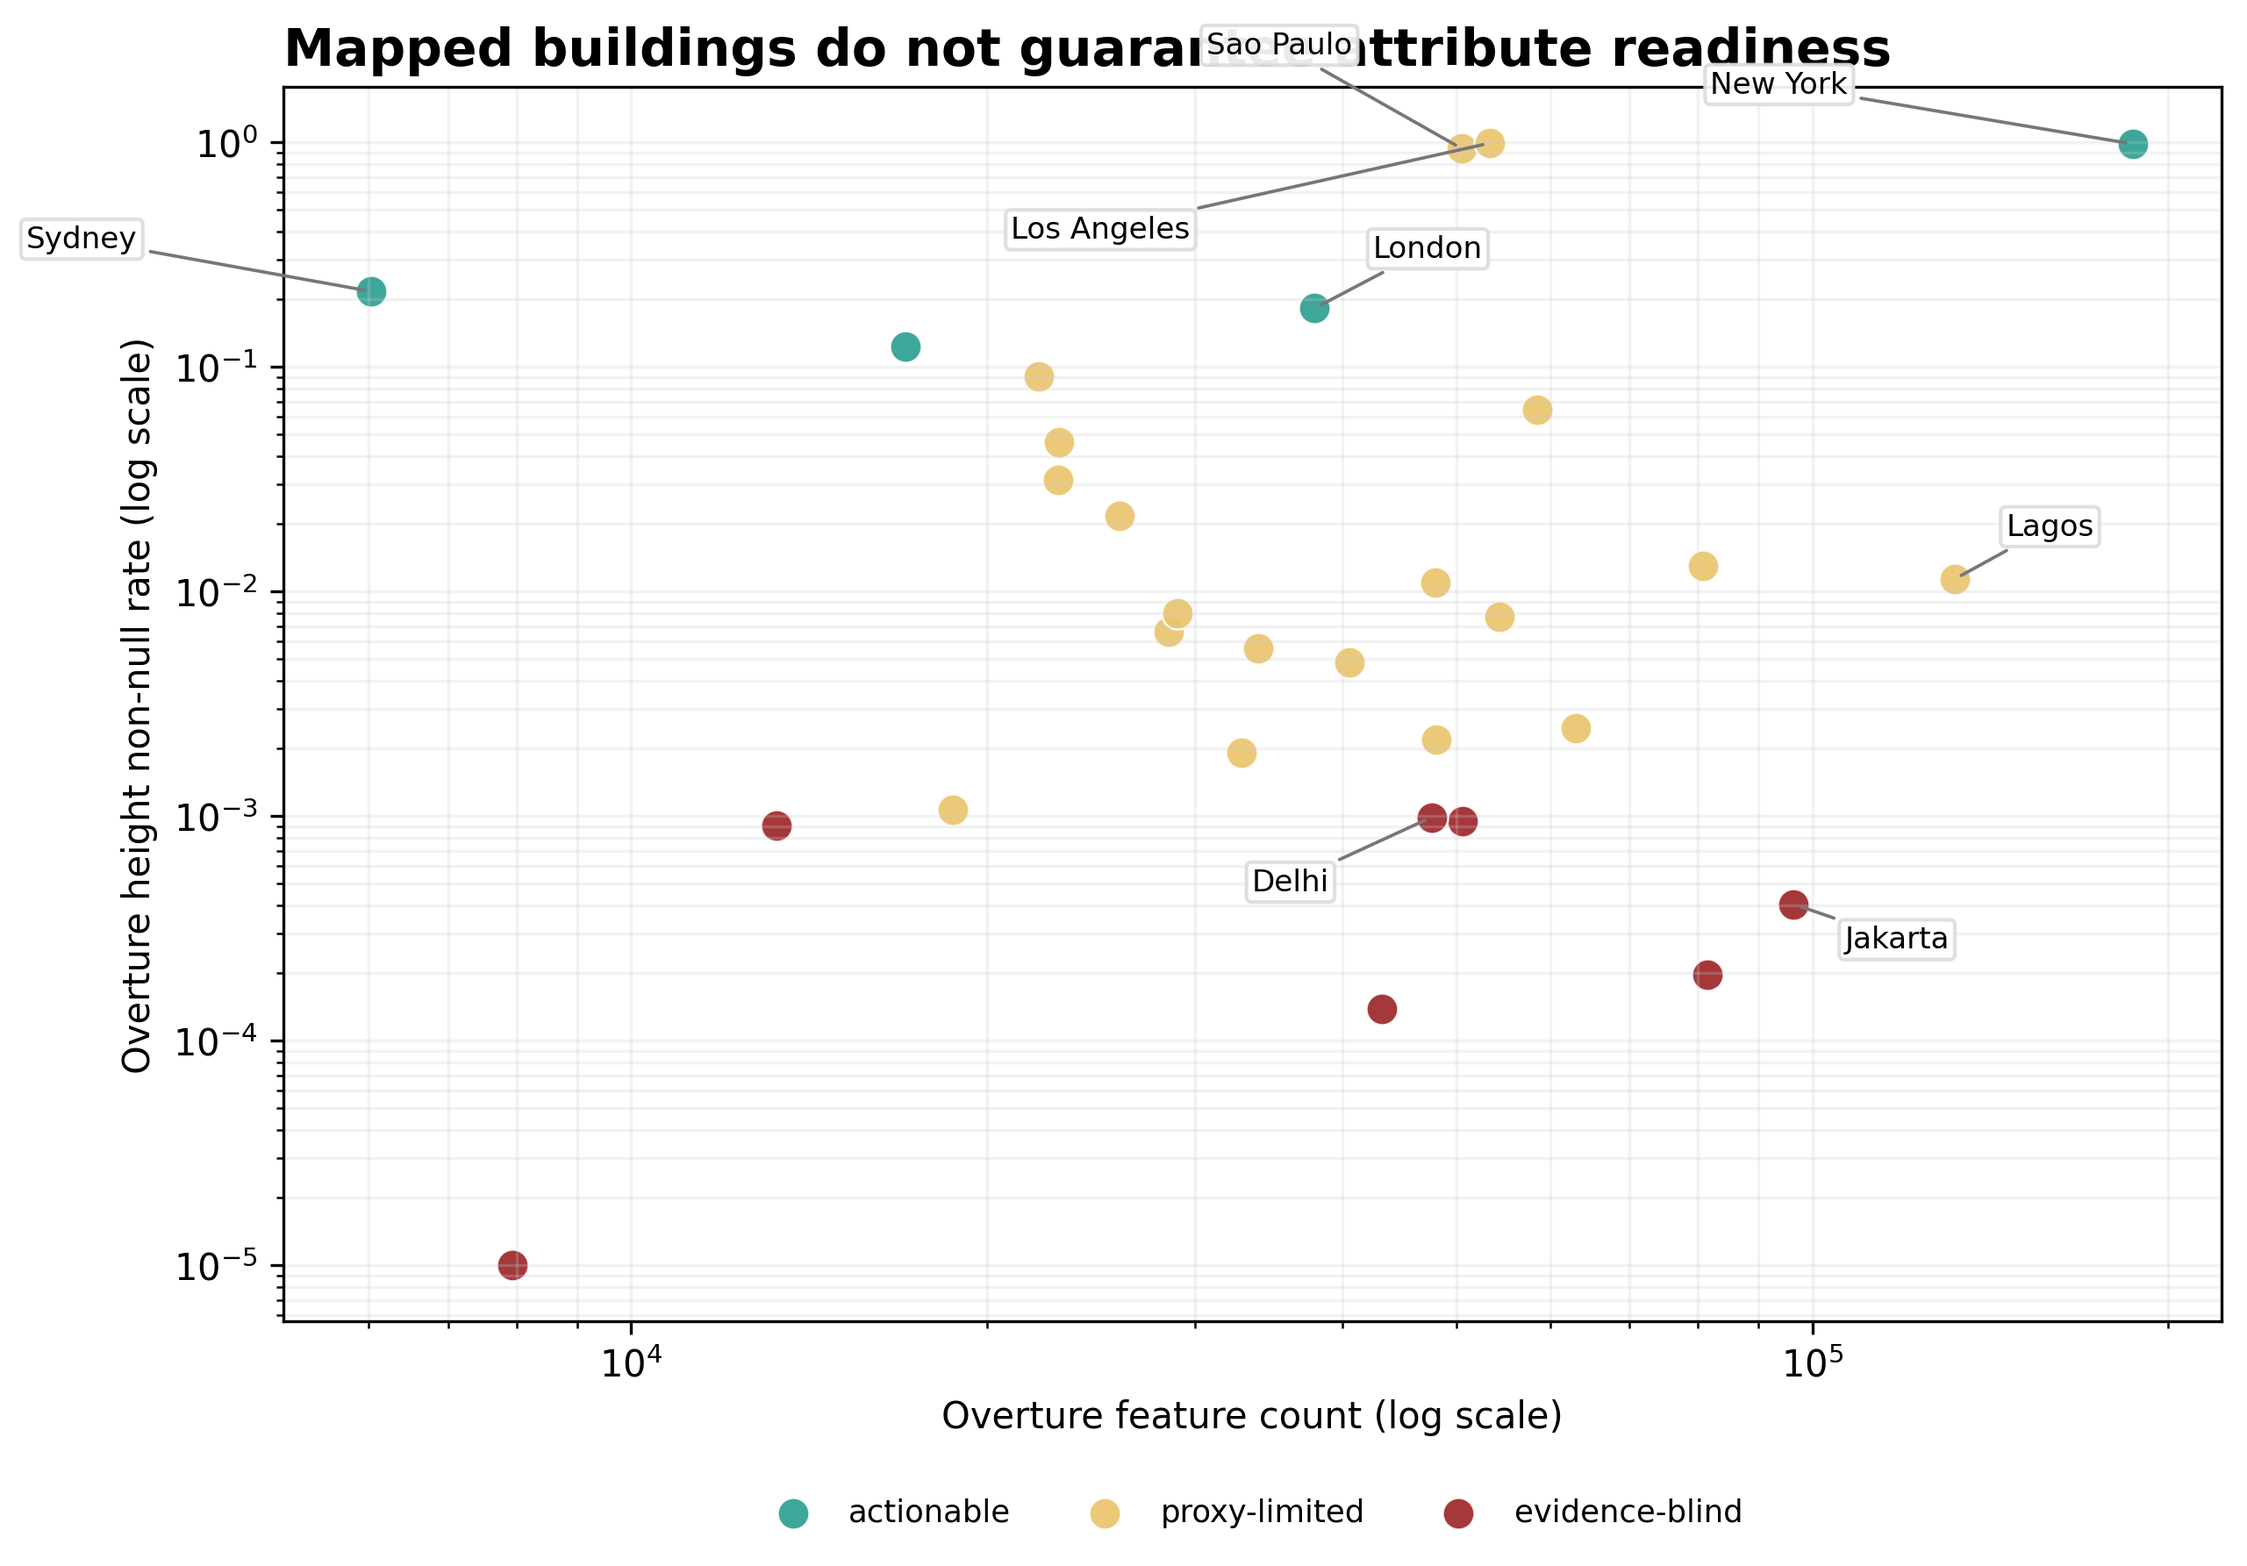
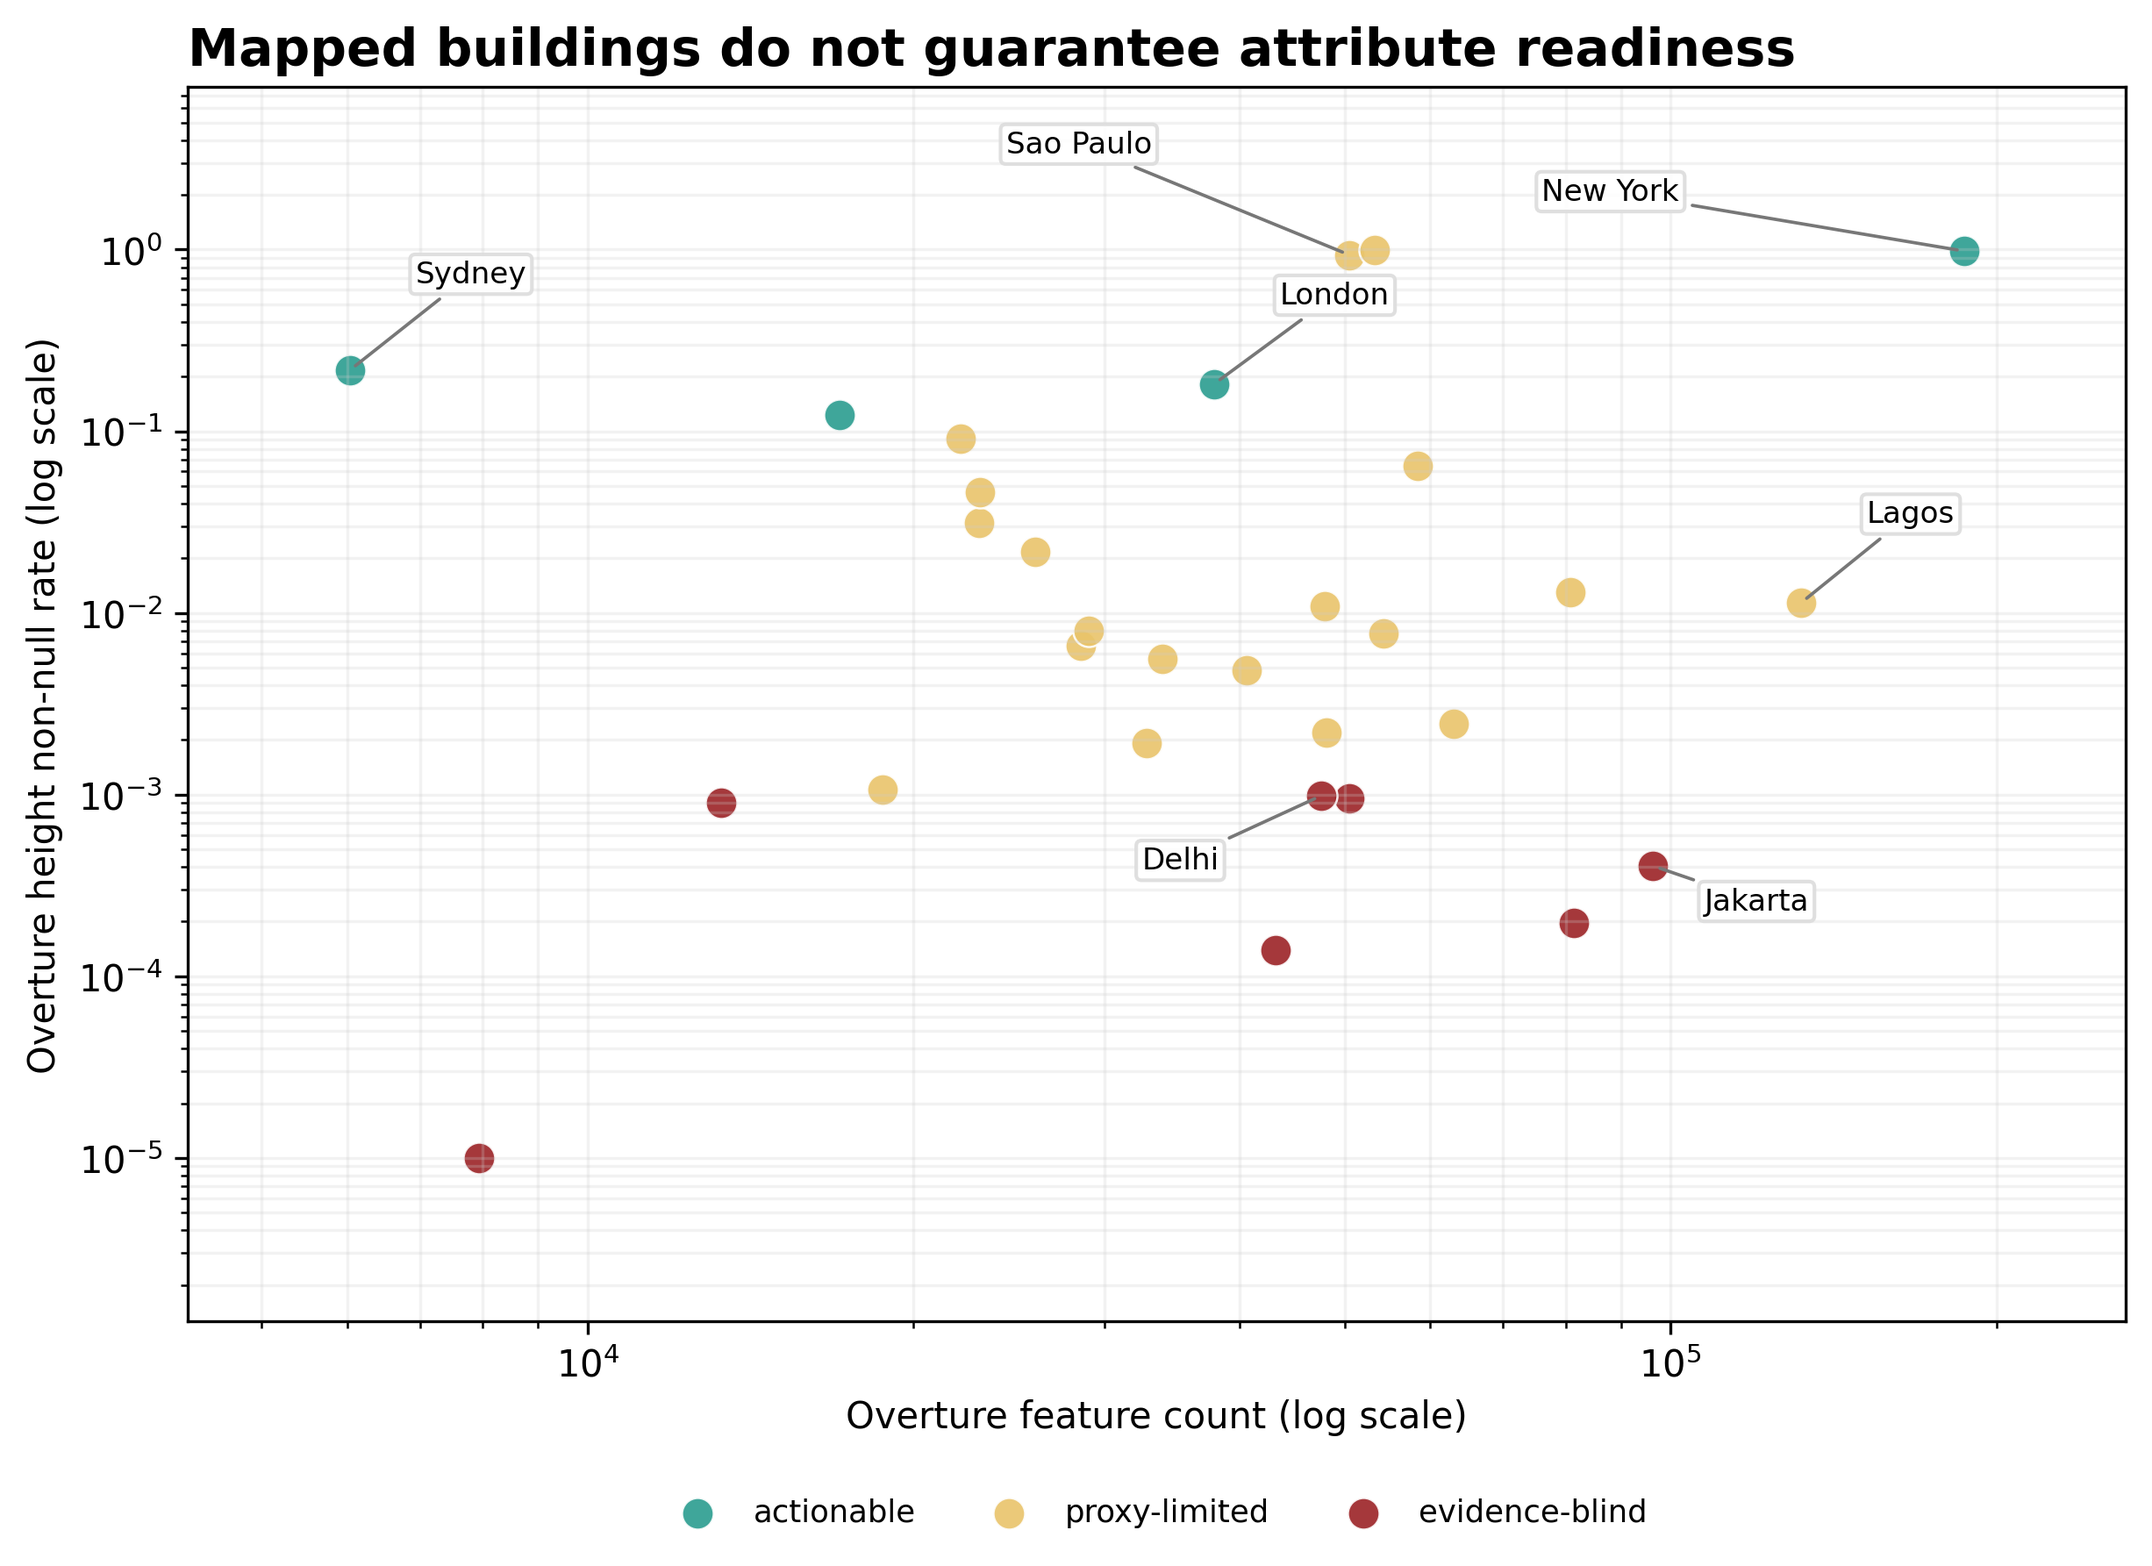
Add threshold sensitivity and evidence ladder figure

diff --git a/scripts/make_figures.py b/scripts/make_figures.py
@@ -4,6 +4,7 @@ import csv
 from pathlib import Path
 
 import matplotlib.pyplot as plt
+from matplotlib.patches import FancyArrowPatch, FancyBboxPatch
 
 
 ROOT = Path(__file__).resolve().parents[1]
@@ -33,53 +34,103 @@ def save_figure(fig: plt.Figure, stem: str) -> None:
 
 
 def fig1_evidence_stack() -> None:
-    rows = [
-        ["Overture footprints", "Feature enumeration and geometry audit", "Not a complete building census"],
-        ["Sentinel attributes", "Vertical-form interpretation where populated", "Not a complete heat-risk descriptor"],
-        ["ERA5 daily-file records", "Heat-window inventory; readable t2m check", "Not street-scale or indoor climate"],
-        ["OSM cache", "Context where city assignment is valid", "Not a reliable 30-city predictor here"],
-        ["GHS-BUILT-H", "City-window background height context", "Not building-level height truth"],
-    ]
-    fig, ax = plt.subplots(figsize=(12, 4.2))
+    fig, ax = plt.subplots(figsize=(13.5, 7.0))
     ax.axis("off")
     ax.text(
         0.0,
         0.98,
-        "Evidence stack for heat-adaptation screening",
-        fontsize=16,
+        "Evidence-readiness ladder for heat-adaptation screening",
+        fontsize=17,
         fontweight="bold",
         transform=ax.transAxes,
     )
     ax.text(
         0.0,
-        0.90,
-        "Open-data layers are treated as separate evidentiary states before any screening claim is made.",
-        fontsize=10.5,
+        0.92,
+        "Each layer must pass its own audit before mapped buildings are promoted into an adaptation-screening claim.",
+        fontsize=11,
         color="#444444",
         transform=ax.transAxes,
     )
-    table = ax.table(
-        cellText=rows,
-        colLabels=["Layer", "Audited role", "Claim boundary"],
-        colWidths=[0.24, 0.40, 0.36],
-        cellLoc="left",
-        bbox=[0.0, 0.05, 1.0, 0.68],
+
+    steps = [
+        ("1", "Open building\nfootprints", "enumerate mapped\nbuilding assets"),
+        ("2", "Attribute\nreadiness", "test height, floors,\nclass and subtype"),
+        ("3", "Climate-window\nreadiness", "audit local ERA5\nfile records"),
+        ("4", "Context-layer\nsupport", "bound OSM and\nGHS roles"),
+        ("5", "Claim\nboundary", "assign allowed and\ndisallowed claims"),
+    ]
+    xs = [0.095, 0.295, 0.495, 0.695, 0.895]
+    y = 0.60
+    w = 0.15
+    h = 0.20
+    fill = ["#eef5f9", "#eff7ea", "#fff7df", "#f4eef8", "#fff1ed"]
+    edge = ["#2b6f8a", "#4d8b31", "#b07800", "#7a5797", "#b94a35"]
+
+    for i, ((num, title, detail), x) in enumerate(zip(steps, xs)):
+        box = FancyBboxPatch(
+            (x - w / 2, y - h / 2),
+            w,
+            h,
+            boxstyle="round,pad=0.012,rounding_size=0.02",
+            facecolor=fill[i],
+            edgecolor=edge[i],
+            linewidth=1.2,
+            transform=ax.transAxes,
+        )
+        ax.add_patch(box)
+        ax.text(x, y + 0.058, num, fontsize=10, fontweight="bold", color=edge[i], ha="center", va="center", transform=ax.transAxes)
+        ax.text(x, y + 0.012, title, fontsize=11, fontweight="bold", ha="center", va="center", transform=ax.transAxes)
+        ax.text(x, y - 0.062, detail, fontsize=9, color="#333333", ha="center", va="center", transform=ax.transAxes)
+        if i < len(xs) - 1:
+            arrow = FancyArrowPatch(
+                (x + w / 2 + 0.012, y),
+                (xs[i + 1] - w / 2 - 0.012, y),
+                arrowstyle="-|>",
+                mutation_scale=12,
+                linewidth=1.1,
+                color="#555555",
+                transform=ax.transAxes,
+            )
+            ax.add_patch(arrow)
+
+    allowed_box = FancyBboxPatch(
+        (0.06, 0.14),
+        0.41,
+        0.26,
+        boxstyle="round,pad=0.018,rounding_size=0.02",
+        facecolor="#eef7ea",
+        edgecolor="#4d8b31",
+        linewidth=1.0,
+        transform=ax.transAxes,
     )
-    table.auto_set_font_size(False)
-    table.set_fontsize(10.5)
-    table.scale(1, 1.75)
-    for (r, c), cell in table.get_celld().items():
-        cell.set_edgecolor("#ffffff")
-        if r == 0:
-            cell.set_facecolor("#e9ecef")
-            cell.set_text_props(fontweight="bold", color="#15324f")
-        elif c == 1:
-            cell.set_facecolor("#eef7ea")
-        elif c == 2:
-            cell.set_facecolor("#fff1ed")
-        else:
-            cell.set_facecolor("#ffffff")
-    save_figure(fig, "Figure_1_evidence_stack_table")
+    blocked_box = FancyBboxPatch(
+        (0.53, 0.14),
+        0.41,
+        0.26,
+        boxstyle="round,pad=0.018,rounding_size=0.02",
+        facecolor="#fff1ed",
+        edgecolor="#b94a35",
+        linewidth=1.0,
+        transform=ax.transAxes,
+    )
+    ax.add_patch(allowed_box)
+    ax.add_patch(blocked_box)
+    ax.text(0.085, 0.355, "Allowed when the ladder is auditable", fontsize=11.5, fontweight="bold", color="#2f6f2f", transform=ax.transAxes)
+    ax.text(0.555, 0.355, "Not supported by this evidence audit", fontsize=11.5, fontweight="bold", color="#9b2f22", transform=ax.transAxes)
+    allowed = "Feature enumeration\nData-readiness diagnosis\nValidation-priority setting\nConservative first-pass screening"
+    blocked = "Mortality or health-impact estimation\nIndoor heat or street-canyon simulation\nCausal intervention effects\nBuilding-level risk ranking\nGHS as per-building height truth"
+    ax.text(0.085, 0.295, allowed, fontsize=10.2, linespacing=1.45, va="top", transform=ax.transAxes)
+    ax.text(0.555, 0.295, blocked, fontsize=10.2, linespacing=1.35, va="top", transform=ax.transAxes)
+    ax.text(
+        0.06,
+        0.055,
+        "Interpretation: the typology is a claim-boundary screen, not a heat-risk, mortality, vulnerability or intervention ranking.",
+        fontsize=9.5,
+        color="#444444",
+        transform=ax.transAxes,
+    )
+    save_figure(fig, "Figure_1_evidence_ladder")
 
 
 def fig2_height_availability(a1_rows: list[dict[str, str]]) -> None:
@@ -135,13 +186,12 @@ def fig3_mapped_vs_actionable(rows: list[dict[str, str]]) -> None:
     ax.grid(True, which="both", color="#cccccc", alpha=0.25)
     label_offsets = {
         "New_York": (-78, 14, "right"),
-        "Los_Angeles": (-82, -26, "right"),
-        "Sao_Paulo": (-30, 26, "right"),
-        "Lagos": (14, 12, "left"),
+        "Sao_Paulo": (-54, 28, "right"),
+        "Lagos": (18, 22, "left"),
         "Jakarta": (14, -12, "left"),
         "Delhi": (-28, -20, "right"),
-        "Sydney": (-64, 12, "right"),
-        "London": (16, 14, "left"),
+        "Sydney": (18, 24, "left"),
+        "London": (18, 22, "left"),
     }
     for r in rows:
         if r["city"] in label_offsets:
@@ -158,6 +208,7 @@ def fig3_mapped_vs_actionable(rows: list[dict[str, str]]) -> None:
                 zorder=5,
             )
     ax.legend(frameon=False, fontsize=8.5, loc="upper center", bbox_to_anchor=(0.5, -0.12), ncol=3)
+    ax.margins(x=0.10, y=0.18)
     fig.subplots_adjust(bottom=0.18)
     save_figure(fig, "Figure_3_mapped_vs_attribute_readiness")
 
@@ -184,7 +235,7 @@ def fig4_typology_matrix(rows: list[dict[str, str]]) -> None:
         colLabels=cols,
         colWidths=[0.24, 0.18, 0.14, 0.14, 0.20],
         cellLoc="left",
-        loc="center",
+        bbox=[0.05, 0.055, 0.90, 0.88],
     )
     table.auto_set_font_size(False)
     table.set_fontsize(8.2)
@@ -209,7 +260,7 @@ def fig4_typology_matrix(rows: list[dict[str, str]]) -> None:
             cell.set_facecolor("#f8f9fa")
     ax.text(
         0.0,
-        -0.03,
+        0.015,
         "Counts under current rules: actionable=4, proxy-limited=19, evidence-blind=7.",
         fontsize=9,
         transform=ax.transAxes,

diff --git a/REPRODUCIBLE_RUNBOOK.md b/REPRODUCIBLE_RUNBOOK.md
@@ -27,6 +27,7 @@ Supporting derived audit tables:
 - `data/A6_era5_readable_temperature_daily.csv`
 - `data/A6_era5_readable_temperature_window_summary.csv`
 - `data/A6_era5_inventory_physical_crosswalk.csv`
+- `data/A7_threshold_sensitivity.csv`
 - `data/city_manifest.csv`
 
 The public A1 table replaces local source paths with portable source file names.
@@ -34,6 +35,8 @@ The public A1 table replaces local source paths with portable source file names.
 ## Optional ERA5 temperature-readability summary
 
 The A6 tables document a bounded physical-file readability check. When readable ERA5 files are available locally, the script extracts hourly `t2m`, converts kelvin to degrees Celsius, and summarises daily mean, daily maximum and 95th-percentile 2 m temperature. The current public derived A6 summary covers 54 readable physical files across 12 cities. It is a validation subset and is not used to reclassify the main typology.
+
+The A7 table documents threshold sensitivity for the typology. The evidence-blind rule is fixed at `height_rate_in_sample < 0.001`; the actionable rule is checked at 5%, 10% and 20% height availability.
 
 ```bash
 python scripts/compute_era5_heat_window_summary.py --project-root .
@@ -47,7 +50,7 @@ python scripts/make_figures.py
 
 Expected outputs:
 
-- `figures/Figure_1_evidence_stack_table.png`
+- `figures/Figure_1_evidence_ladder.png`
 - `figures/Figure_2_height_availability.png`
 - `figures/Figure_3_mapped_vs_attribute_readiness.png`
 - `figures/Figure_4_typology_matrix_table.png`
@@ -56,7 +59,7 @@ Expected outputs:
 
 After running the script, confirm that:
 
-- Figure 1 is a table-form evidence-stack figure.
+- Figure 1 is an evidence-readiness ladder with no clipped boxes or connector lines.
 - Figure 2 is sorted from highest to lowest `height` availability.
 - Figure 3 has no city-label overlap and no legend over data marks.
 - Figure 4 is a table-form typology matrix.

diff --git a/README.md b/README.md
@@ -1,6 +1,6 @@
 # Urban heat-adaptation evidence-readiness audit
 
-This repository contains a public reproducibility package for a 30-city audit of open building and climate-data readiness for urban heat-adaptation screening.
+This repository contains a public reproducibility package for the manuscript "Are open building data ready for urban heat-adaptation screening? Evidence readiness across 30 cities".
 
 The associated manuscript is framed around a bounded claim: mapped open building footprints are not automatically actionable building-scale heat-adaptation evidence. The repository supports that claim with derived audit tables, figure-generation code and generated figure previews. It does not include active submission files.
 
@@ -23,6 +23,8 @@ This repository intentionally excludes raw third-party data, local download arch
 The public derived tables record 1,454,543 audited Overture building features across 30 city-level files. The Overture `height` field is treated as a sentinel attribute for vertical-form interpretability rather than as a complete heat-risk descriptor. Its city-level non-null availability is highly uneven, with the current audit producing an actionable / proxy-limited / evidence-blind split of 4 / 19 / 7 cities.
 
 The A6 derived tables add a bounded ERA5 readability check: 54 physical ERA5 files currently present in the local project tree were readable as hourly `t2m` files, allowing daily maximum 2 m temperature summaries across 12 cities. This is a heat-window validation subset, not a replacement for the full A2 daily-file inventory and not a city risk ranking.
+
+The A7 threshold-sensitivity table reports how the typology changes under 5%, 10% and 20% actionable height cut-offs while holding the evidence-blind rule fixed at `height_rate_in_sample < 0.001`.
 
 ## Quick start
 

diff --git a/data/README.md b/data/README.md
@@ -11,9 +11,12 @@ This directory contains derived audit tables only.
 - `A6_era5_readable_temperature_daily.csv`: daily 2 m temperature summaries for readable physical ERA5 files available in the local project tree; public copy excludes local file names.
 - `A6_era5_readable_temperature_window_summary.csv`: city-level summary of the readable ERA5 temperature subset.
 - `A6_era5_inventory_physical_crosswalk.csv`: crosswalk between the A2 inventory and physical files found locally for the readability check.
+- `A7_threshold_sensitivity.csv`: typology sensitivity under 5%, 10% and 20% actionable height thresholds.
 - `city_manifest.csv`: 30-city audit manifest with high-level layer availability.
 - `evidence_readiness_scores.csv`: final city-level readiness typology used by the figures.
 
 The A6 tables are a heat-window validation subset. They do not replace the full A2 inventory and should not be read as a complete ERA5 coverage or heat-risk product.
+
+The A7 table is a threshold-sensitivity diagnostic. It does not change the main typology rule.
 
 No raw Overture, ERA5, OSM or GHSL files are redistributed here.

diff --git a/docs/PAPER_SUMMARY.md b/docs/PAPER_SUMMARY.md
@@ -2,7 +2,7 @@
 
 ## Working title
 
-Evidence readiness of open building data for urban heat-adaptation screening across 30 cities
+Are open building data ready for urban heat-adaptation screening? Evidence readiness across 30 cities
 
 ## Study question
 
@@ -20,6 +20,8 @@ The audit separates four evidentiary states that are often blended too quickly i
 The central public message is that building footprints alone are not building-scale heat-adaptation evidence. Attribute completeness, climate-window coverage and context-layer validity must be checked before adaptation claims are made.
 
 A bounded A6 readability check demonstrates that, where physical ERA5 files are present and readable, the workflow can extract daily maximum 2 m temperature summaries. This strengthens the urban-climate orientation of the audit while keeping the heat indicator separate from the evidence-readiness typology.
+
+A7 threshold sensitivity shows that the 5% and 10% actionable height thresholds produce the same 4 / 19 / 7 typology split, while a 20% threshold produces a stricter 2 / 21 / 7 split.
 
 ## Claim boundary
 
